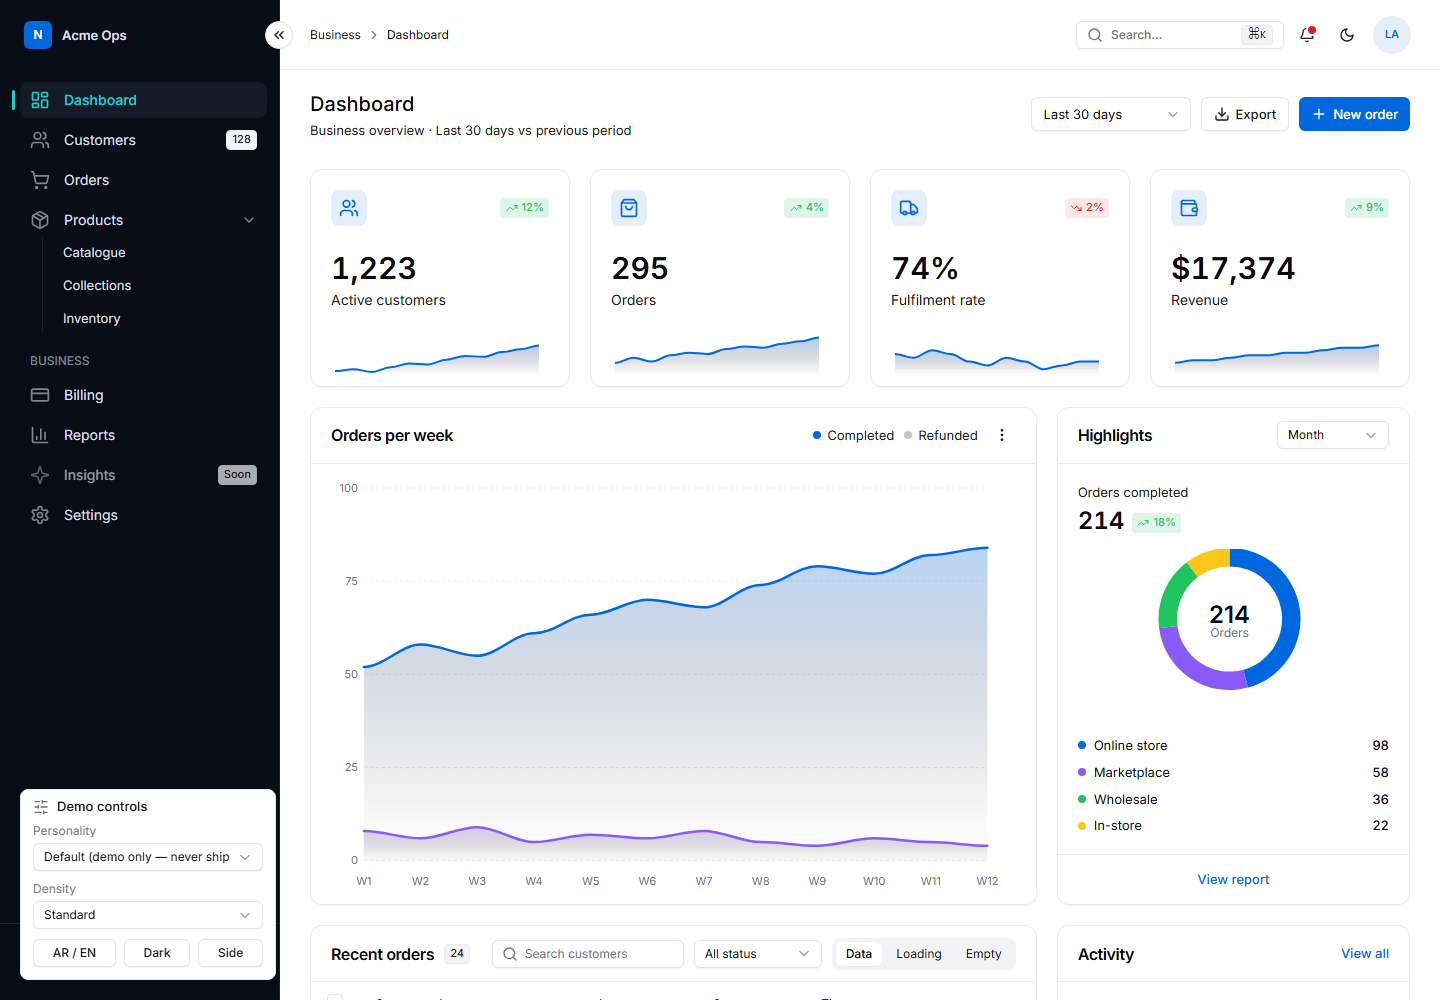
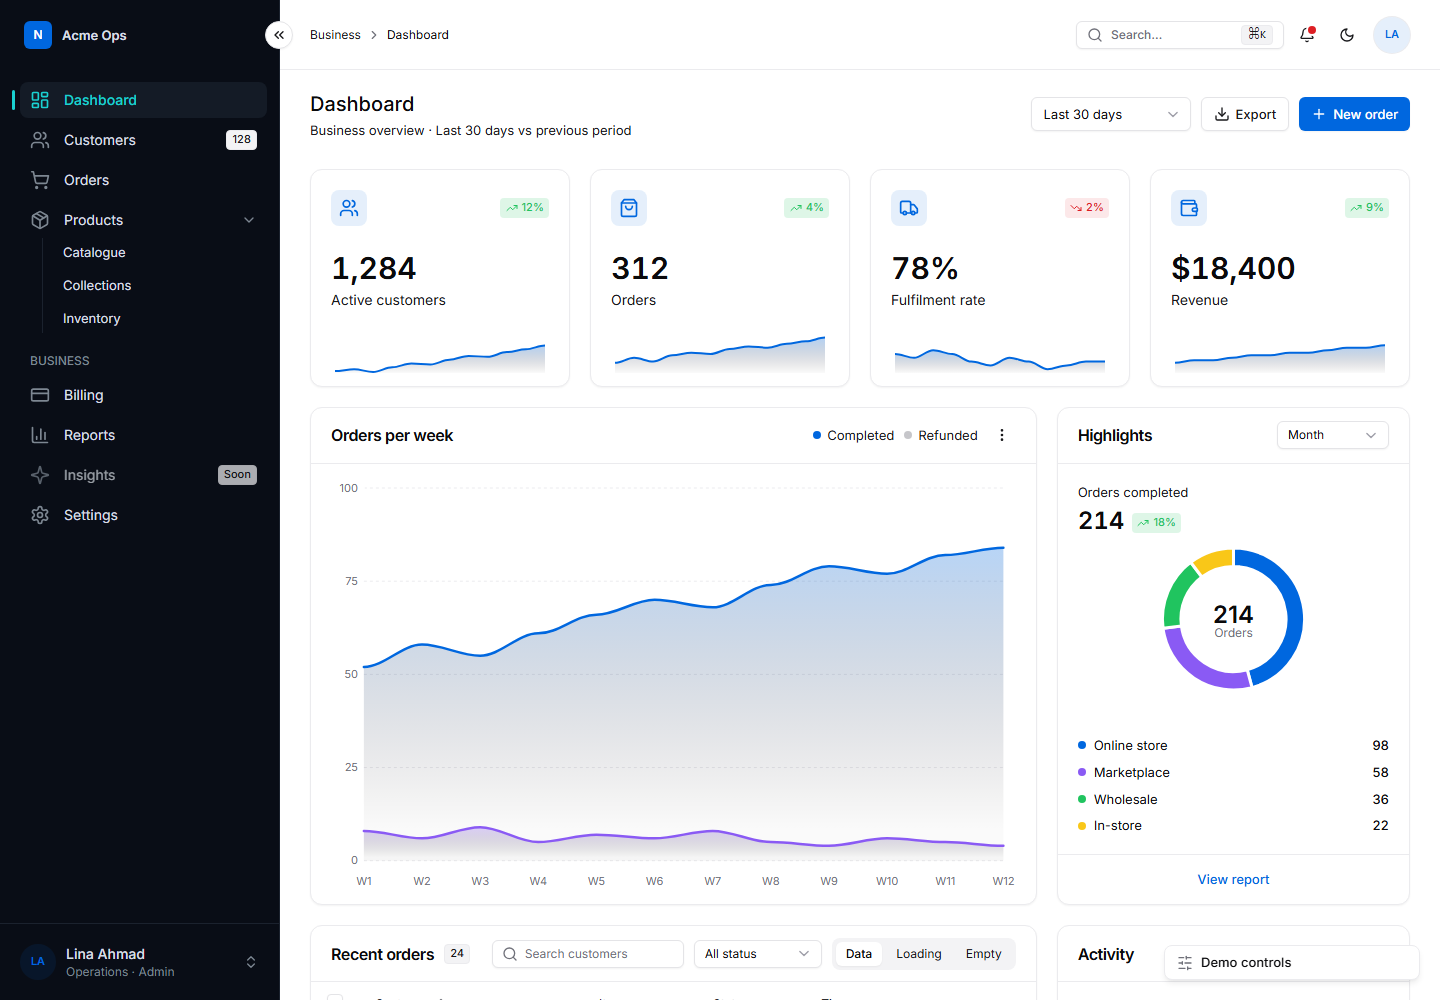
demo: sidebar collapse, active state, tooltips, drawer close, user menu; demo panel out of the way; layouts recipe unlayered

diff --git a/skills/jbelly-ui/assets/app-shell.html b/skills/jbelly-ui/assets/app-shell.html
@@ -35,7 +35,7 @@
   --sidebar-primary: var(--primary); --sidebar-border: var(--border);
   --shadow-xs: 0 1px 2px 0 rgb(0 0 0 / 0.05);
   --shadow-md: 0 4px 6px -1px rgb(0 0 0 / 0.08), 0 2px 4px -2px rgb(0 0 0 / 0.06);
-  --sidebar-width: 280px; --sidebar-width-collapsed: 80px; --header-height: 70px;
+  --sidebar-width: 280px; --sidebar-default-width: 280px; --sidebar-width-collapsed: 80px; --header-height: 70px;
   --ctl-h: 34px; --ctl-h-sm: 28px; --row-h: 46px; --card-p: 1.25rem; --page-gap: 1.25rem;
   --chart-2: var(--info); --chart-3: var(--success); --chart-4: var(--warning);
 }
@@ -173,16 +173,22 @@
   .menu-item { @apply flex items-center gap-2.5 rounded-md px-2 py-2 text-2sm text-foreground cursor-pointer hover:bg-accent [&_svg]:size-4 [&_svg]:text-muted-foreground; }
   .kbd { @apply inline-flex h-5 items-center rounded-sm border border-border bg-muted px-1.5 font-mono text-2xs text-secondary-foreground; }
   .skeleton { @apply animate-pulse rounded-md bg-accent; }
-  /* collapsed sidebar (desktop) */
-  @media (width >= 64rem) {
-    .sidebar-collapsed { --sidebar-width: var(--sidebar-width-collapsed); }
-    .sidebar-collapsed #sidebar:hover { width: 280px; }
-    .sidebar-collapsed #sidebar:not(:hover) :is(.nav-title, .nav-badge, .nav-arrow, .nav-children, .logo-full) { display: none; }
-    .sidebar-collapsed #sidebar:not(:hover) .nav-heading { visibility: hidden; height: 1.75rem; }
-    .sidebar-collapsed #sidebar:not(:hover) .logo-mark { display: flex; }
-  }
-  .logo-mark { display: none; }
 }
+
+/* ===== sidebar collapse: unlayered on purpose (must beat :root variables and utility classes) ===== */
+@media (width >= 64rem) {
+  html.sidebar-collapsed { --sidebar-width: var(--sidebar-width-collapsed); }
+  html.sidebar-collapsed #sidebar:hover:not(.no-peek) { width: var(--sidebar-default-width, 280px); }
+  html.sidebar-collapsed #sidebar:is(:not(:hover), .no-peek) :is(.nav-title, .nav-badge, .nav-arrow, .nav-children, .logo-full) { display: none !important; }
+  html.sidebar-collapsed #sidebar:is(:not(:hover), .no-peek) .nav-heading { visibility: hidden; height: 1.75rem; padding: 0; }
+  html.sidebar-collapsed #sidebar:is(:not(:hover), .no-peek) .logo-mark { display: flex; }
+  html.sidebar-collapsed #sidebar:is(:not(:hover), .no-peek) .nav-link, html.sidebar-collapsed #sidebar:is(:not(:hover), .no-peek) .nav-child { justify-content: center; }
+  html.sidebar-collapsed #sidebar:is(:not(:hover), .no-peek) .nav-children { display: none !important; }
+  html.sidebar-collapsed #sidebar-toggle svg { transform: rotate(180deg); }
+  html[dir="rtl"] #sidebar-toggle svg { transform: rotate(180deg); }
+  html[dir="rtl"].sidebar-collapsed #sidebar-toggle svg { transform: none; }
+}
+.logo-mark { display: none; }
 </style>
 </head>
 <body class="h-full flex text-2sm">
@@ -219,8 +225,15 @@
     <a class="nav-link" href="#"><i data-lucide="settings"></i><span class="nav-title grow truncate" data-i18n="Settings">Settings</span></a>
   </nav>
 <!-- @endregion nav -->
-<div class="p-3 border-t border-sidebar-border">
-    <button class="w-full flex items-center gap-2.5 rounded-lg px-2 py-2 hover:bg-sidebar-accent text-start" aria-haspopup="menu">
+<div class="p-3 border-t border-sidebar-border relative">
+    <div id="side-user-menu" class="menu absolute bottom-full start-3 end-3 mb-1 hidden" role="menu">
+      <a class="menu-item" href="#"><i data-lucide="user"></i><span data-i18n="Profile">Profile</span></a>
+      <a class="menu-item" href="#"><i data-lucide="settings"></i><span data-i18n="Settings">Settings</span></a>
+      <a class="menu-item" href="#"><i data-lucide="keyboard"></i>Shortcuts<span class="ms-auto kbd">?</span></a>
+      <div class="my-1 h-px bg-border"></div>
+      <a class="menu-item text-destructive hover:bg-destructive/10" href="#"><i data-lucide="log-out" class="text-destructive!"></i><span data-i18n="Log out">Log out</span></a>
+    </div>
+    <button id="side-user-btn" class="w-full flex items-center gap-2.5 rounded-lg px-2 py-2 hover:bg-sidebar-accent text-start" aria-haspopup="menu" aria-expanded="false" title="Account">
       <span class="inline-flex size-9 shrink-0 items-center justify-center rounded-full bg-primary/10 text-primary font-semibold text-2xs">LA</span>
       <span class="nav-title flex flex-col min-w-0 grow"><span class="text-sm font-medium text-sidebar-foreground truncate">Lina Ahmad</span><span class="text-xs text-sidebar-muted truncate">Operations · Admin</span></span>
       <i data-lucide="chevrons-up-down" class="nav-arrow size-4 text-sidebar-muted"></i>
@@ -268,7 +281,7 @@
           <h1 class="text-xl font-medium text-mono font-display" data-i18n="Dashboard">Dashboard</h1>
           <p class="text-2sm text-secondary-foreground">Business overview · <span id="period-label" data-i18n="Last 30 days">Last 30 days</span> vs previous period</p>
         </div>
-        <div class="flex items-center gap-2.5">
+        <div class="flex flex-wrap items-center gap-2.5">
           <select id="period" class="input select w-40"><option data-i18n="Last 7 days">Last 7 days</option><option selected data-i18n="Last 30 days">Last 30 days</option><option data-i18n="This quarter">This quarter</option></select>
           <button class="btn btn-outline"><i data-lucide="download"></i>Export</button>
           <button class="btn btn-primary" data-toast="Order created" data-toast-undo><i data-lucide="plus"></i>New order</button>
@@ -423,7 +436,7 @@
 <div id="toasts" aria-live="polite" aria-relevant="additions" class="fixed bottom-5 end-5 z-50 flex flex-col gap-2.5 w-[360px] max-w-[calc(100%-2.5rem)]"></div>
 
 <!-- ===== Demo controls (not part of the shell) ===== -->
-<details class="fixed bottom-5 start-5 z-40 rounded-lg border border-border bg-popover shadow-md text-2sm w-64 open:pb-3" open>
+<details class="fixed bottom-5 end-5 z-20 rounded-lg border border-border bg-popover shadow-md text-2sm w-64 open:pb-3">
   <summary class="cursor-pointer select-none px-3 py-2 font-medium text-mono flex items-center gap-2"><i data-lucide="sliders-horizontal" class="size-4 text-muted-foreground"></i>Demo controls</summary>
   <div class="px-3 flex flex-col gap-2.5">
     <label class="flex flex-col gap-1"><span class="text-xs text-muted-foreground">Personality</span>
@@ -477,9 +490,9 @@ document.addEventListener('change', e => {
     const t0 = performance.now(); (function tick(t) { const p = Math.min(1, (t - t0) / 600), e = 1 - Math.pow(1 - p, 3); el.textContent = Math.round(end * e).toLocaleString(); if (p < 1) requestAnimationFrame(tick); })(t0); });
 })();
 // sidebar
-$('#sidebar-toggle').onclick = () => { html.classList.toggle('sidebar-collapsed'); try { localStorage.setItem('ui.sidebar', html.classList.contains('sidebar-collapsed') ? 'collapsed' : 'open'); } catch {} };
+$('#sidebar-toggle').onclick = () => { html.classList.toggle('sidebar-collapsed'); $('#sidebar').classList.add('no-peek'); $('#sidebar').addEventListener('mouseleave', () => $('#sidebar').classList.remove('no-peek'), { once: true }); try { localStorage.setItem('ui.sidebar', html.classList.contains('sidebar-collapsed') ? 'collapsed' : 'open'); } catch {} };
 try { if (localStorage.getItem('ui.sidebar') === 'collapsed') html.classList.add('sidebar-collapsed'); } catch {}
-$('#hamburger').onclick = () => { $('#sidebar').classList.remove('hidden'); $('#overlay').classList.remove('hidden'); };
+$('#hamburger').onclick = () => { $('#sidebar').classList.remove('hidden'); $('#sidebar').classList.add('flex'); $('#overlay').classList.remove('hidden'); $('#sidebar .nav-link').focus(); };
 $('#overlay').onclick = () => { $('#sidebar').classList.add('hidden'); $('#overlay').classList.add('hidden'); };
 $$('[data-toggle-group]').forEach(a => a.addEventListener('click', e => { e.preventDefault(); a.closest('.nav-group').classList.toggle('open'); }));
 // theme
@@ -507,7 +520,7 @@ $('#open-search').onclick = openPalette; $('#palette-overlay').onclick = closePa
 $('#palette-input').addEventListener('input', e => { const q = e.target.value.toLowerCase(); $$('#palette-list .menu-item').forEach(i => i.classList.toggle('hidden', q && !i.textContent.toLowerCase().includes(q))); });
 document.addEventListener('keydown', e => {
   if ((e.ctrlKey || e.metaKey) && e.key.toLowerCase() === 'k') { e.preventDefault(); openPalette(); }
-  if (e.key === 'Escape') { if (!$('#palette').classList.contains('hidden')) closePalette(); else if (!$('#drawer').classList.contains('hidden')) closeDrawer(); else um.classList.add('hidden'); }
+  if (e.key === 'Escape') { if (!$('#palette').classList.contains('hidden')) closePalette(); else if (!$('#drawer').classList.contains('hidden')) closeDrawer(); else if (innerWidth < 1024 && !$('#sidebar').classList.contains('hidden')) closeMobileSidebar(); else { um.classList.add('hidden'); if ($('#side-user-menu')) $('#side-user-menu').classList.add('hidden'); } }
 });
 // toasts
 function toast(msg, undo) { const el = document.createElement('div');
@@ -584,6 +597,24 @@ function mountCharts() {
   charts.forEach(c => c.render());
 }
 new MutationObserver(() => { clearTimeout(window.__rechart); window.__rechart = setTimeout(mountCharts, 120); }).observe(html, { attributes: true, attributeFilter: ['class', 'dir'] });
+
+// ===== sidebar behaviour: active state, tooltips, mobile drawer, persistence =====
+function closeMobileSidebar() { if (innerWidth < 1024) { $('#sidebar').classList.add('hidden'); $('#overlay').classList.add('hidden'); } }
+$$('#sidebar .nav-link:not([data-toggle-group]), #sidebar .nav-child').forEach(a => a.addEventListener('click', e => {
+  if (a.getAttribute('aria-disabled') === 'true') { e.preventDefault(); return; }
+  e.preventDefault();
+  $$('#sidebar .active').forEach(x => { x.classList.remove('active'); x.removeAttribute('aria-current'); });
+  a.classList.add('active'); a.setAttribute('aria-current', 'page');
+  const label = (a.querySelector('.nav-title') || a).textContent.trim();
+  const h1 = $('main h1'); if (h1) h1.textContent = label;
+  const crumb = $('nav[aria-label="Breadcrumb"] .text-mono'); if (crumb) crumb.textContent = label;
+  closeMobileSidebar();
+}));
+$$('#sidebar .nav-link').forEach(a => { const t = a.querySelector('.nav-title'); if (t && !a.title) a.title = t.textContent.trim(); });
+$$('#sidebar .nav-group').forEach((g, i) => { g.querySelector('[data-toggle-group]').addEventListener('click', () => { try { localStorage.setItem('ui.group.' + i, g.classList.contains('open') ? '1' : '0'); } catch {} }); try { const v = localStorage.getItem('ui.group.' + i); if (v === '0') g.classList.remove('open'); if (v === '1') g.classList.add('open'); } catch {} });
+const sub = $('#side-user-btn'), sum = $('#side-user-menu');
+if (sub && sum) { sub.onclick = e => { e.stopPropagation(); sum.classList.toggle('hidden'); sub.setAttribute('aria-expanded', !sum.classList.contains('hidden')); }; document.addEventListener('click', () => { sum.classList.add('hidden'); sub.setAttribute('aria-expanded', 'false'); }); }
+window.addEventListener('resize', () => { if (innerWidth >= 1024) { $('#sidebar').classList.remove('hidden'); $('#overlay').classList.add('hidden'); } else if (!$('#overlay').classList.contains('hidden')) {} else { $('#sidebar').classList.add('hidden'); } });
 renderRows(); lucide.createIcons(); mountCharts();
 </script>
 </body>

diff --git a/skills/jbelly-ui/references/layouts.md b/skills/jbelly-ui/references/layouts.md
@@ -97,16 +97,32 @@ hamburger.onclick = () => { sidebar.classList.remove('hidden'); overlay.classLis
 overlay.onclick    = () => { sidebar.classList.add('hidden');    overlay.classList.add('hidden'); };
 ```
 
-CSS for the collapsed state (put in your `@layer components`):
+CSS for the collapsed state. Keep it **outside every `@layer`** (unlayered rules beat both the `:root` variables and Tailwind's utility layer; inside `@layer components` the toggle silently does nothing):
 
 ```css
 @media (width >= 64rem) {
-  .sidebar-collapsed { --sidebar-width: var(--sidebar-width-collapsed); }
-  .sidebar-collapsed #sidebar:hover { width: 280px; }                       /* peek on hover */
-  .sidebar-collapsed #sidebar:not(:hover) :is(.nav-title, .nav-badge, .nav-arrow, .nav-children, .logo-full) { display: none; }
-  .sidebar-collapsed #sidebar:not(:hover) .logo-mark { display: flex; }
-  .sidebar-collapsed #sidebar:not(:hover) .nav-heading { visibility: hidden; height: 1.75rem; }
+  html.sidebar-collapsed { --sidebar-width: var(--sidebar-width-collapsed); }
+  html.sidebar-collapsed #sidebar:hover:not(.no-peek) { width: 280px; }        /* peek on hover */
+  html.sidebar-collapsed #sidebar:is(:not(:hover), .no-peek) :is(.nav-title, .nav-badge, .nav-arrow, .nav-children, .logo-full) { display: none !important; }
+  html.sidebar-collapsed #sidebar:is(:not(:hover), .no-peek) .logo-mark { display: flex; }
+  html.sidebar-collapsed #sidebar:is(:not(:hover), .no-peek) .nav-heading { visibility: hidden; height: 1.75rem; padding: 0; }
+  html.sidebar-collapsed #sidebar:is(:not(:hover), .no-peek) :is(.nav-link, .nav-child) { justify-content: center; }
+  html.sidebar-collapsed #sidebar-toggle svg { transform: rotate(180deg); }
 }
+```
+
+The toggle button sits on the sidebar edge, so the pointer is still hovering after the click. Add `no-peek` on click and drop it on `mouseleave`, otherwise the peek rule keeps the sidebar open and the button looks broken:
+
+```js
+toggle.onclick = () => { html.classList.toggle('sidebar-collapsed'); sidebar.classList.add('no-peek');
+  sidebar.addEventListener('mouseleave', () => sidebar.classList.remove('no-peek'), { once: true }); };
+// every nav link gets a title for the collapsed state; clicks move the active state and close the mobile drawer
+sidebar.querySelectorAll('.nav-link').forEach(a => { const t = a.querySelector('.nav-title'); if (t) a.title = t.textContent.trim(); });
+sidebar.querySelectorAll('.nav-link:not([data-toggle-group]), .nav-child').forEach(a => a.addEventListener('click', () => {
+  sidebar.querySelectorAll('.active').forEach(x => { x.classList.remove('active'); x.removeAttribute('aria-current'); });
+  a.classList.add('active'); a.setAttribute('aria-current', 'page');
+  if (innerWidth < 1024) { sidebar.classList.add('hidden'); overlay.classList.add('hidden'); }
+}));
 ```
 
 Below `lg`: sidebar is `hidden`, shown as a drawer with an overlay

diff --git a/CHANGELOG.md b/CHANGELOG.md
@@ -1,5 +1,13 @@
 # Changelog
 
+## 0.5.0-beta.3 — 2026-09-17
+
+- Demo sidebar fixed: the collapse toggle now works (collapse rules moved out of `@layer components`, where the unlayered `:root` width silently won), the hover-peek no longer re-opens the sidebar while the pointer is still on the toggle, nav and child clicks move the active state and `aria-current`, collapsed items get tooltips, group open state persists, the user card opens a menu, the mobile drawer closes on tap and Esc.
+- Demo controls panel moved to the bottom-end corner and closed by default; it used to cover the sidebar's bottom items.
+- Toolbar wraps on phone widths.
+- `references/layouts.md`: the collapse recipe is now unlayered with the `no-peek` guard, so generated screens do not inherit the bug.
+- Showcase captures refreshed.
+
 ## 0.5.0-beta.2 — 2026-09-17
 
 - `scripts/personality_init.py` writes `design/personality.md` from a preset and the dials changed.
